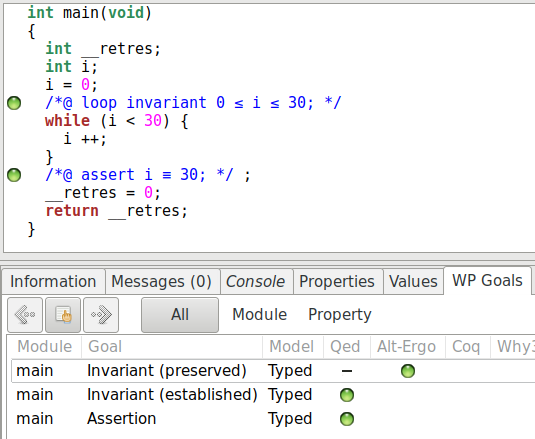
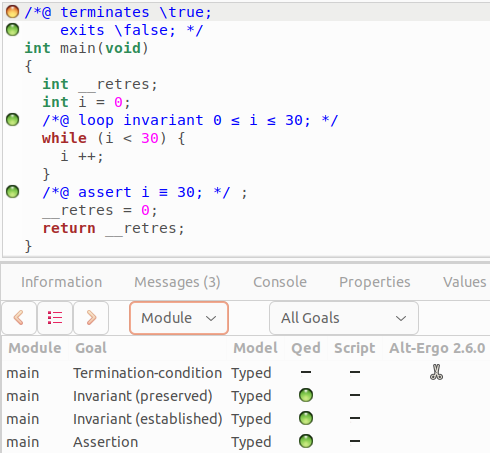
Update section about loops wrt terminates

diff --git a/english/statements/loops.tex b/english/statements/loops.tex
@@ -175,18 +175,15 @@ Again, we can have a look at the list of verification conditions in
 ``WP Goals'':
 
 
-
 \image{i_30-1}
 
 
-We notice that WP produces two different verification conditions: the
-establishment of the invariant and its preservation. WP produces exactly
-the reasoning we previously described to prove the assertion. In recent
-versions of Frama-C, Qed has become particularly aggressive and
-powerful, and the generated verification condition does not show those details
-(showing directly ``True''). Using the option \CodeInline{-wp-no-simpl} at
-start, we can however see these details:
-
+We see that the termination condition is not proved, but let us ignore that
+right now. We notice that WP produces two different verification conditions: the
+establishment of the invariant and its preservation. WP produces exactly the
+reasoning we previously described to prove the assertion. The Qed simplifier is
+powerful enough to directly finish the proof (showing directly ``True''). Using
+the option \CodeInline{-wp-no-simpl} at start, we can however see these details:
 
 
 \image{i_30-2}
@@ -199,9 +196,7 @@ But is our specification precise enough?
 \CodeBlockInput{c}{first_loop-2.c}
 
 
-
 And the result is:
-
 
 
 \image{i_30-3}
@@ -262,19 +257,13 @@ formulation of the correctness property is ``if the precondition is
 valid, and \textbf{if} the computation terminates, then the
 postcondition is valid''. In the second case, ``if the precondition is
 valid, \textbf{then} the computation terminates and the postcondition is
-valid''. By default, WP considers only partial correctness:
-
-
-
+valid''. By default, WP only verify partial correctness, \textit{but} asks
+the kernel to generate the \CodeInline{terminates} clause so that we are forced
+to verify the termination anyway (except if we voluntarily change the clause
+as explained in Section~\ref{l3:statements-function-calls-terminates}). Thus,
+if we try to verify the following program:
 \CodeBlockInput{c}{infinite.c}
-
-
-
-If we try to verify this code activating the verification of absence of
-RTE, we get this result:
-
-
-
+we get this result:
 \image{infinite}
 
 
@@ -285,7 +274,9 @@ allows to leave the loop, it does not terminate. As we are proving the
 code with partial correctness, and as the execution does not terminate,
 we can prove anything about the code that follows the non-terminating
 part of the code. However, if the termination is not trivially provable,
-the assertion will probably not be proved.
+the assertion will probably not be proved. However, because we have not proved
+the termination of the loop, the \CodeInline{terminates} clause is not proved,
+and we see that it might be a problem.
 
 
 
@@ -339,16 +330,22 @@ Again, we can have a look at the generated verification conditions:
 
 WP generates two verification conditions for the loop variant: verify that the
 value of the expression specified in the variant is positive, and prove that it
-strictly decreases during the execution of the loop. And if we delete the line
-of code that increments \CodeInline{i}, WP cannot prove anymore that
-\CodeInline{30\ -\ i} strictly decreases.
+strictly decreases during the execution of the loop. We also see that with the
+loop variant, WP can prove that the function terminates. And if we delete the
+line of code that increments \CodeInline{i}, WP cannot prove anymore that
+\CodeInline{30\ -\ i} strictly decreases, and the \CodeInline{terminates} clause
+is now ``proved under hypothesis''.
 
 
-We can also note that, since the loop variant is an upper bound on the number of
-remaining iterations, being able to give a loop variant does not necessarily
-induce that we can give the exact number of remaining iterations of the loop, as
-we do not always have a so precise knowledge of the behavior of the program. We
-can for example build an example like this one:
+\image{i_30-5}
+
+
+We will give more details about how the \CodeInline{terminates} clause is proved
+later. For now, note that, since the loop variant is an upper bound on the
+number of remaining iterations, being able to give a loop variant does not
+necessarily induce that we can give the exact number of remaining iterations of
+the loop, as we do not always have a so precise knowledge of the behavior of the
+program. We can for example build an example like this one:
 
 
 \CodeBlockInput{c}{random_loop.c}

diff --git a/french/statements/function-calls.tex b/french/statements/function-calls.tex
@@ -355,7 +355,9 @@ produit une récursion infinie :
 Nous pouvons voir que la fonction et l'assertion sont prouvées. Et, effectivement,
 la preuve est correcte : nous considérons une correction partielle (puisque nous ne
 pouvons pas prouver la terminaison), et cette fonction ne termine pas. Toute
-assertion suivant cette fonction est vraie : elle est inatteignable.
+assertion suivant cette fonction est vraie : elle est inatteignable. Mais à
+nouveau, nous avons un chien de garde : la clause \CodeInline{terminates} n'est
+pas prouvée.
 
 
 Une question que l'on peut alors se poser est : que peut-on faire dans un tel
@@ -469,6 +471,7 @@ Finalement, si une fonction d'un \textit{cluster} ne fournit pas de clause
 
 
 \levelThreeTitle{Spécifier et prouver la terminaison des fonctions}
+\label{l3:statements-function-calls-terminates}
 
 
 Une propriété désirable pour une fonction est souvent qu'elle doit terminer.
@@ -533,16 +536,14 @@ termine (toujours) :
 \begin{Information}
   En ACSL, il est spécifié que lorsqu'une fonction n'a pas de clause
   \CodeInline{terminates}, le comportement par défaut
-  \CodeInline{terminates \textbackslash{}true}. Cependant, cela n'est pas
-  encore implémenté par le noyau de Frama-C. Ce comportement peut être activé
-  dans WP en utilisant les options :
+  \CodeInline{terminates \textbackslash{}true}. Ce comportement est
+  automatiquement activé par WP au niveau du noyau de Frama-C. Donc, quand WP
+  démarre la vérification d'une fonction, il demande au noyau de générer ces
+  annotations. Ce comportement peut être désactivé
+  \textbf{pour les fonctions définies par l'utilisateur} à l'aide de l'option :
   \begin{itemize}
-  \item \CodeInline{-wp-definitions-terminate} (pour les définitions de fonction),
-  \item \CodeInline{-wp-declarations-terminate} (pour les fonctions sans définition),
-  \item \CodeInline{-wp-frama-c-stdlib-terminate} (pour les fonctions de la stdlib de Frama\nobreakdash-C),
+  \item \CodeInline{-generated-spec-custom terminates:skip}
   \end{itemize}
-  pour dire que, à moins qu'une clause soit déjà fournie, les fonctions doivent
-  terminer (et pour les fonctions qui ont une définition cela doit être vérifié).
 \end{Information}
 
 
@@ -628,26 +629,6 @@ Où la terminaison du premier appel est en effet vérifiée, tandis que la
 terminaison du second ne l'est pas.
 
 
-Quand la fonction appelée n'a pas de clause \CodeInline{terminates}, elle est
-considérée par défaut comme ayant une clause \CodeInline{\textbackslash{}false},
-c'est-à-dire : à moins qu'une clause \CodeInline{terminates} soit spécifiée,
-la fonction pourrait ne pas terminer.
-
-
-Par exemple, pour notre fonction \CodeInline{simple} précédemment présentée,
-nous recevons ce message
-« \textit{Missing terminates clause on call to call, defaults to \textbackslash{}false} »
-et nous échouons à prouver la terminaison :
-
-
-\image{simple_terminates_fails}
-
-
-Notons que la formule $\mathtt{r} > 0 \Rightarrow false$ est traduite en
-$\mathtt{r} <= 0$.
-
-
-
 \paragraph{Variant de boucle}
 
 
@@ -716,17 +697,6 @@ comportement ACSL est activé via l'option
 
 
 \CodeBlockInput[53][60]{c}{terminates.c}
-
-
-\begin{Information}
-  Lorsqu'une fonction sous preuve n'a pas de clause \CodeInline{terminates},
-  lorsqu'une condition de vérification en a besoin, la clause est considérée
-  comme étant \CodeInline{\textbackslash{}true} puisque cela assure que nous
-  avons plus de choses à prouver. Par exemple, lorsque l'option
-  \CodeInline{-wp-variant-with-terminates} est utilisée et qu'une fonction
-  contient un variant de boucle à prouver, cela garantit que WP essaie
-  effectivement de le prouver.
-\end{Information}
 
 
 \levelThreeTitle{Exercices}

diff --git a/french/statements/loops.tex b/french/statements/loops.tex
@@ -170,7 +170,9 @@ Goals} » :
 \image{i_30-1}
 
 
-Nous remarquons bien que WP décompose la preuve de l'invariant en deux parties :
+Nous remarquons que WP ne peut pas prouver la terminaison de la fonction, nous
+reviendrons sur ce sujet un peu plus loin. Plus important pour l'instant, nous
+voyons que WP décompose la preuve de l'invariant en deux parties :
 l'établissement de l'invariant et sa préservation. WP produit exactement le
 raisonnement décrit plus haut pour la preuve de l'assertion. Dans les versions
 récentes de Frama-C, Qed est devenu particulièrement puissant et la condition
@@ -250,18 +252,14 @@ partielle et la correction totale. Dans le premier cas, la formulation est
 « si la précondition est validée et \textbf{si} le calcul termine, alors la
 postcondition est validée ». Dans le second cas, « si la précondition est
 validée, alors le calcul termine et la postcondition est validée ». WP
-s'intéresse par défaut à de la preuve de correction partielle :
-
-
-
+s'intéresse par défaut à de la preuve de correction partielle, \textit{mais}
+demande au noyau de Frama-C de générer une clause \CodeInline{terminates} pour
+nous forcer à vérifier ensuite la terminaison (sauf si nous changeons
+volontairement cette clause comme nous le présenterons dans la
+section~\ref{l3:statements-function-calls-terminates}). Par conséquent, si nous
+essayons de prouver le programme suivant :
 \CodeBlockInput{c}{infinite.c}
-
-
-Si nous demandons la vérification de ce code en activant le contrôle de RTE,
 nous obtenons ceci :
-
-
-
 \image{infinite}
 
 
@@ -271,7 +269,9 @@ du bloc de la boucle ne permet d'en sortir puisque le bloc ne contient pas de co
 tout. Comme nous sommes en correction partielle, et que le calcul ne termine pas, nous
 pouvons prouver n'importe quoi au sujet du code qui suit la partie non terminante. Si,
 en revanche, la non-terminaison est non triviale, il y a peu de chances que l'assertion
-soit prouvée.
+soit prouvée. Par contre, comme nous n'avons pas prouvé la terminaison de la
+boucle, la clause \CodeInline{terminates} n'est pas prouvée et nous pouvons voir
+qu'il pourrait y avoir un problème.
 
 
 
@@ -329,20 +329,23 @@ WP génère deux conditions de vérification pour le variant de boucle : on doit
 assurer que la valeur de l'expression est positive et qu'elle décroît
 strictement pendant l'exécution de la boucle. Si nous supprimons la ligne de
 code qui incrémente \CodeInline{i}, WP ne peut plus prouver que la valeur
-\CodeInline{30 - i} décroît strictement.
+\CodeInline{30 - i} décroît strictement et la clause \CodeInline{terminates}
+est maintenant « prouvée sous hypothèse ».
 
 
-Il est également bon de noter que, puisque le variant de boucle est une borne
-supérieure sur le nombre d'itérations restantes, être capable de donner un
+\image{i_30-5}
+
+
+Nous donnerons plus de détail sur la preuve de la clause \CodeInline{terminates}
+plus tard. Pour l'instant, notons que, puisque le variant de boucle est une
+borne supérieure sur le nombre d'itérations restantes, être capable de donner un
 variant de boucle n'induit pas nécessairement d'être capable de donner le nombre
 exact d'itérations qui doivent encore être exécutées par la boucle, car nous
 n'avons pas toujours une connaissance aussi précise du comportement de notre
 programme. Nous pouvons par  exemple avoir un code comme celui-ci :
 
 
-
 \CodeBlockInput{c}{random_loop.c}
-
 
 
 Ici, à chaque tour de boucle, nous diminuons la valeur de la variable

diff --git a/english/statements/function-calls.tex b/english/statements/function-calls.tex
@@ -362,7 +362,8 @@ of a function that does an infinite recursion:
 We can see that the function and the assertion are proved. And indeed the
 proof is correct: we consider partial correctness, and we face a function
 that does not terminate: anything that follows a call to this function would
-be true.
+be true. But again, we have a watchdog: the \CodeInline{terminates} clause is
+not proved.
 
 
 Thus, the question is: what could we do in such a case? Again, we could use
@@ -471,6 +472,7 @@ and a warning is emitted by WP.
 
 
 \levelThreeTitle{Specifying and proving function termination}
+\label{l3:statements-function-calls-terminates}
 
 
 A desirable property for a function is often that it should terminate. Indeed,
@@ -532,16 +534,13 @@ terminates (always):
 \begin{Information}
   In ACSL, it is specified that when a function does not have a
   \CodeInline{terminates} clause, the default is
-  \CodeInline{terminates \textbackslash{}true}, however it is still not
-  implemented by the Frama-C kernel. This behavior can be enabled in WP
-  by using the options:
+  \CodeInline{terminates \textbackslash{}true}. This behavior is automatically
+  enabled by WP at the kernel level. Thus, when WP starts the verification of
+  a function, it asks the kernel to generate these annotations. This behavior
+  can be disabled \textbf{for user defined functions} using the kernel option:
   \begin{itemize}
-  \item \CodeInline{-wp-definitions-terminate} (for functions with definition),
-  \item \CodeInline{-wp-declarations-terminate} (for functions without definition),
-  \item \CodeInline{-wp-frama-c-stdlib-terminate} (for functions of the Frama-C stdlib),
+    \item \CodeInline{-generated-spec-custom terminates:skip}
   \end{itemize}
-  to claim that, unless a clause is provided, they must terminate (and thus
-  for functions with a definition, the verification must be performed).
 \end{Information}
 
 
@@ -625,23 +624,6 @@ to disable simplifications):
 Where the first call termination is indeed verified while the second is not.
 
 
-When the called function does not have a \CodeInline{terminates} clause, it
-is considered to be \CodeInline{\textbackslash{}false}, that is: unless a
-\CodeInline{terminates} clause is provided, the function may not terminate.
-
-
-For example with our previous \CodeInline{simple} function, we get the message
-``Missing terminates clause on call to call, defaults to \textbackslash{}false''
-and we fail to prove termination:
-
-
-\image{simple_terminates_fails}
-
-
-Note that the formula $\mathtt{r} > 0 \Rightarrow false$ is translated into
-$\mathtt{r} <= 0$.
-
-
 \paragraph{Loop variant}
 
 
@@ -708,16 +690,6 @@ ACSL specified behavior is enabled via the option
 
 
 \CodeBlockInput[53][60]{c}{terminates.c}
-
-
-\begin{Information}
-  When a function under proof does not have \CodeInline{terminates}
-  specification, whenever a verification condition needs it, the clause is
-  considered to be \CodeInline{\textbackslash{}true} since it makes sure that
-  we have more things to prove. For example, when the option
-  \CodeInline{-wp-variant-with-terminates} is used and a function contains a
-  \CodeInline{loop variant}, it guarantees that WP tries to prove it.
-\end{Information}
 
 
 \levelThreeTitle{Exercises}

diff --git a/code/statements/loops/first_loop-5.c b/code/statements/loops/first_loop-5.c
@@ -1,0 +1,15 @@
+int main(){
+  int i = 0;
+  int h = 42;
+  
+  /*@
+    loop invariant 0 <= i <= 30;
+    loop assigns i;
+    loop variant 30 - i;
+  */
+  while(i < 30){
+    //++i;
+  }
+  //@assert i == 30;
+  //@assert h == 42;
+}
